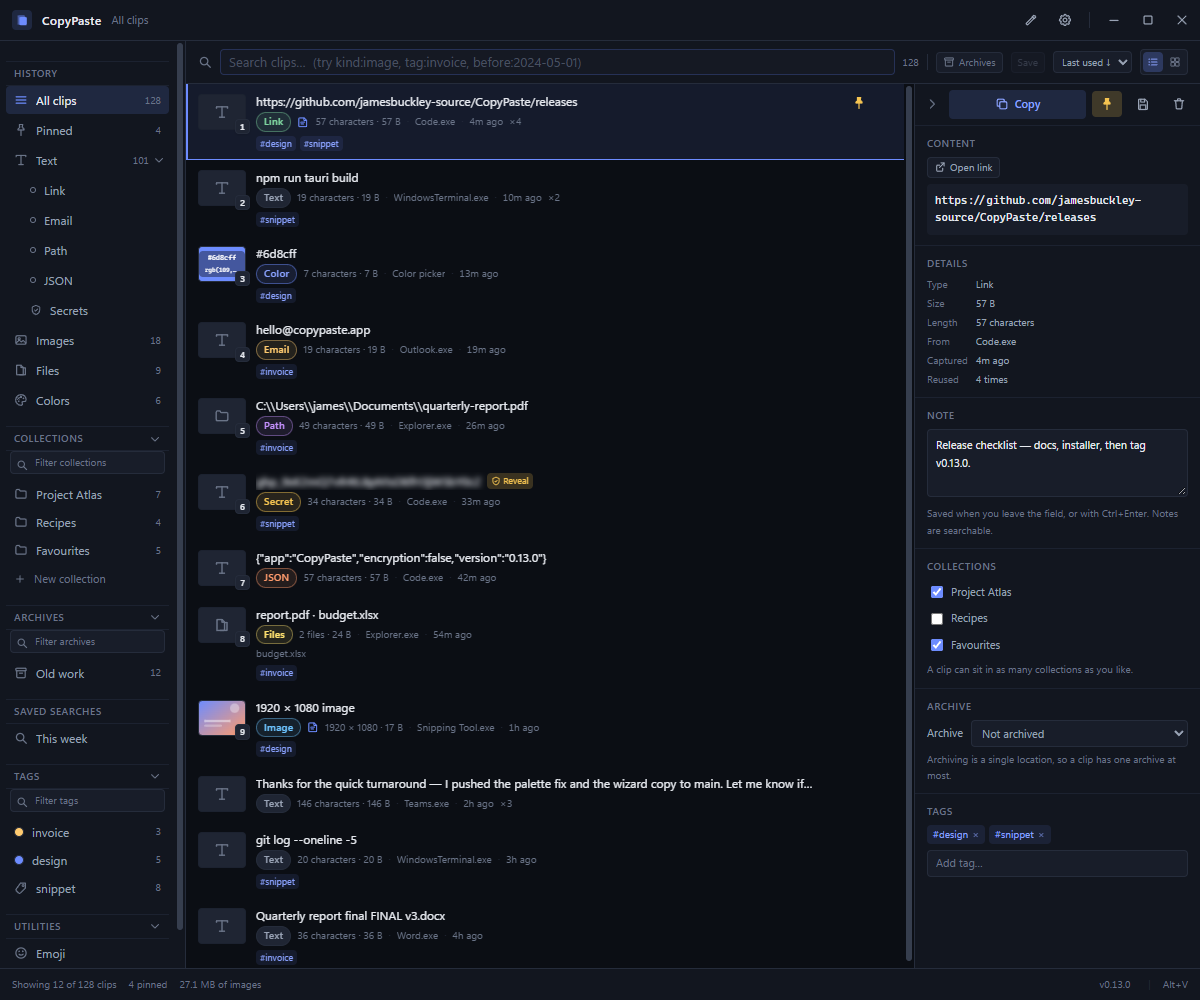
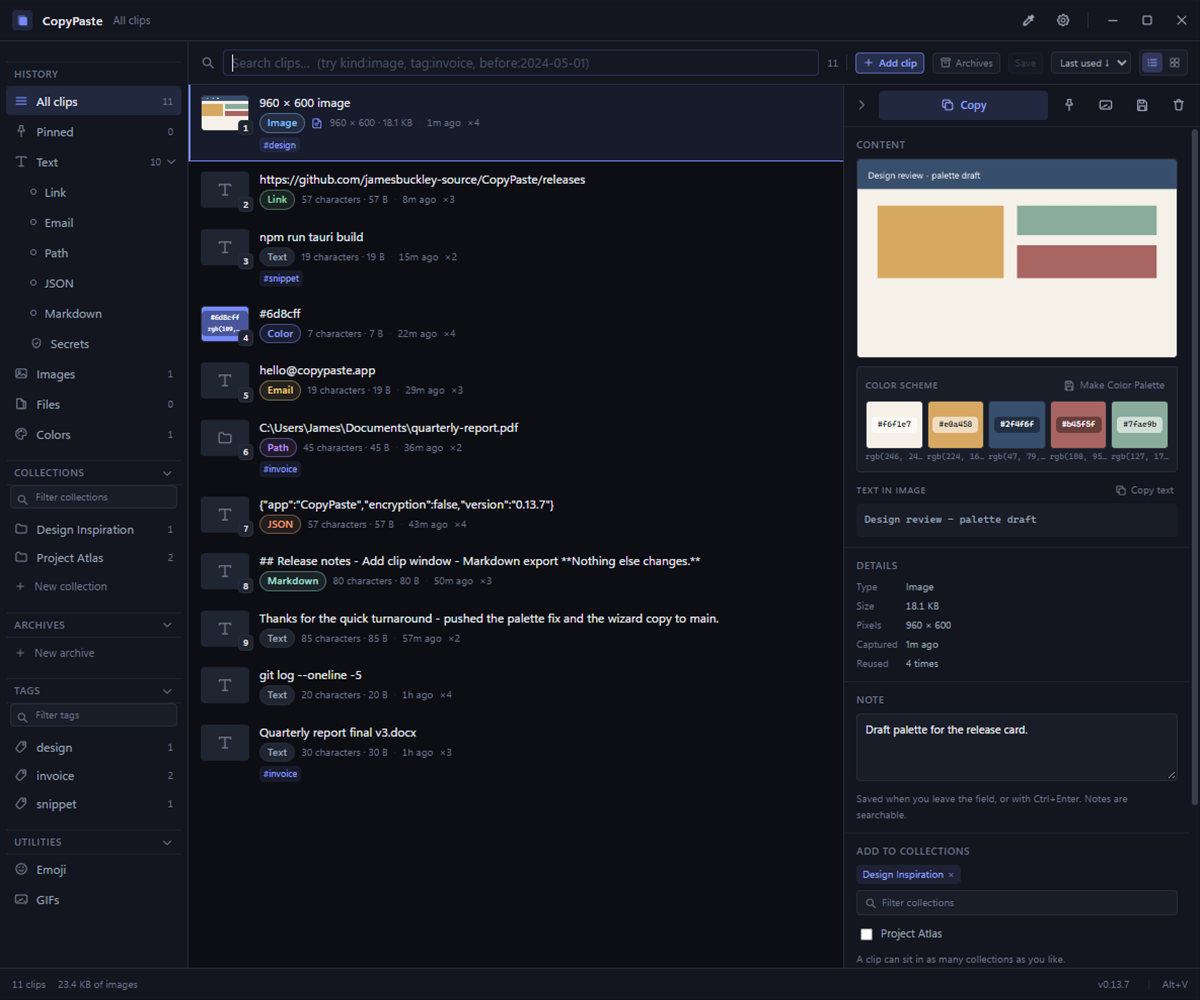
docs: refresh the screenshots and add the quick preview
Both were captured against a throwaway demo profile, so the history shown is synthetic: a colour scheme read from a sample image, the Add to Collections picker, a Markdown clip and the preview overlay with its zoom controls.

diff --git a/README.md b/README.md
@@ -27,8 +27,13 @@ place.
 ![CopyPaste main window](docs/screenshots/main-interface.png)
 
 *The history view: search and filters on the left, clips in the middle, and the preview pane with
-notes, collections, archives and tags on the right. The version number at the bottom right is also
-the manual update-check button.*
+the colour scheme, notes, collections, archives and tags on the right. The **Add clip** button sits
+in the toolbar, and the version number at the bottom right is also the manual update-check button.*
+
+![Quick preview of an image clip](docs/screenshots/quick-preview.png)
+
+*`Space` opens the selected clip over a dimmed history. Images get zoom controls at the bottom; text
+clips open in a larger editor.*
 
 ![First-run setup wizard](docs/screenshots/first-run-wizard.png)
 
